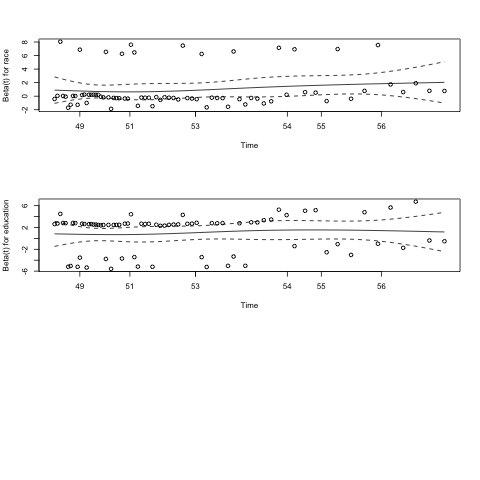
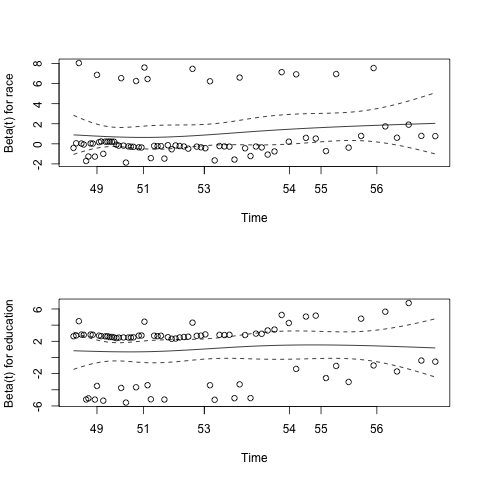
add codes

diff --git a/Background.md b/Background.md
@@ -12,6 +12,8 @@
 
     * The hazared ratio model
 
+    * **Model 1**
+
     * $$
       \begin{aligned}
       t_i &= x_i-v_i\\
@@ -36,12 +38,24 @@
 
     * Where X is the event time, V is the left truncation time, so all the event is happened conditionally
 
-    * Quasi-independent: If the event age X and the entry age V are conditionally independent, given the covariates Z, then a simple calculation shows that the conditional hazard $h(t | Z, X > V)$ and the unconditional hazard rate, $h(t |Z)$ are equivalent (Andersen, et al., 1993).[1]
+    * Quasi-independent: If the event age X and the entry age V are conditionally independent, given the covariates Z, then a simple calculation shows that the conditional hazard $h(t | Z, X > V)$ and the unconditional hazard rate, $h(t |Z)$ are equivalent (Andersen, et al., 1993)[1]. By assuming queasi-independence, there is no further need to adjust the intake age in the covariates of coxPH.
 
       * But might be violated from our data since the intake_time is correlated with the event time?
 
     * The hazard ratio model
 
+    * **Model 2** (only race)
+      $$
+      \begin{aligned}
+      h_i(x| v_i) &= h_0(x|v_i)exp(\eta_i)\\
+      \eta_i&=\beta_1I(race=black)_i\\
+      &+\beta_2I(race=others)_i
+      \end{aligned}
+      $$
+      
+    
+    * **Model 3**
+    
     * $$
       \begin{aligned}
       h_i(x| v_i) &= h_0(x|v_i)exp(\eta_i)\\
@@ -53,14 +67,16 @@
       \end{aligned}
       $$
 
-* 
-
-* Check the assumption of PH model
-  * The PH assumption requires the hazard ratio is constant over time,  consequently, the relative risk between subject should also be constant if there is no time-dependent covariants included.
+  
 
 
 
 # Results
+
+## Check the assumption of PH model
+
+* The PH assumption requires the hazard ratio is constant over time,  consequently, the relative risk between subject should also be constant if there is no time-dependent covariants included.
+* We first check the log-log KM curve using 2 starting points. As in Fig ??, the stratified log-log KM curve of both variables are slightly non-paralleled in both time measurements, indicating a potential violation of the cox pH assumption [3].  To further test the assumption objectively, a score test of for addition of the time-dependent term is contected for each variable and also globally. From Table ??,  all the time-dependent terms are insignificant, even though there is local crossing of the stratified KM curves. Thus we conclude that there is no evidence to reject the PH assumption for cox model 1 and model 3. We also plot the time-dependent coeffitients against time for all the variables, and the horizontal and flat lines further verifies the validation of PH assumption in models.
 
 ## Survival curve comparison using different starting point
 
@@ -78,7 +94,7 @@
 
 The first model only takes race as covariates to evaluate the main effect without considering confounding effect. From the **model1** output, we can see that there is significant difference on menopause age between black and white, but no significant difference between white and others; To further compare the difference between black and others, a new **model1'** is fitted with others as reference and No significance between race others and black is detected.
 
-To further check the confounder effect of education to the relationship between race and menopause age, **model2** is fitted to get the conditional effect of race given education level.  Even though from the anova using loglikelihood ratio test didn't show siginificant advantage of model 2, the relative risk ratio of menapause age of black v.s. white becomes larger after adjusting the educational level (2.50(1.30, 4.82) after adjusting, 2.14(1.16, 3.95) without adjusting). We conclude that education level is a potential confounder of the relationship between race and menopause age. Controling for education level, the relative risk of menopause age is 2.64(0.98,7.09) for a plack patient v.s. other ethnicity patient， and an estimate of the baseline survival function for White non-Hispanic patients with Post- graduate education is in Fig ??
+To further check the confounder effect of education to the relationship between race and menopause age, **model2** is fitted to get the conditional effect of race given education level.  Even though from the anova using loglikelihood ratio test didn't show siginificant advantage of model 2, the relative risk ratio of menapause age of black v.s. white becomes larger after adjusting the educational level (2.50(1.30, 4.82) after adjusting, 2.14(1.16, 3.95) without adjusting). We conclude that education level is a potential confounder of the relationship between race and menopause age. Controling for education level, the relative risk of menopause age is 2.64(0.98,7.09) for a plack patient v.s. other ethnicity patient， and an estimate of the baseline survival function for White non-Hispanic patients with Post- graduate education is in Fig ??.
 
 Only show race ggsurv plot(g2) ?
 
@@ -92,24 +108,24 @@ Only show race ggsurv plot(g2) ?
 
 [2] Kim et al., “Cox Proportional Hazards Models with Left Truncation and Time-Varying Coefficient.”
 
-
+[3] Kleinbaum and Klein, *Survival Analysis*.
 
 ## Check list
 
 - [ ] menopause time
   - [x] exp survival mdian suvival time, interprete and CI
   - [x] KM survival mdian suvival time, interprete and CI
-  - [ ] Fit PH
-    - [ ] interprete
-    - [ ] check assumption
-- [ ] menopause age
-  - [ ] exp survival mdian suvival time, interprete and CI
-  - [ ] KM survival mdian suvival time, interprete and CI
-  - [ ] Fit PH
-    - [ ] race only for whether 3 race groups are equivalent
-    - [ ] race+education
-      - [ ] test model selection, whether education is useful by LR 
-      - [ ] race significance after adjusting education
+  - [x] Fit PH
+    - [x] interprete
+    - [x] check assumption
+- [x] menopause age
+  - [x] exp survival mdian suvival time, interprete and CI
+  - [x] KM survival mdian suvival time, interprete and CI
+  - [x] Fit PH
+    - [x] race only for whether 3 race groups are equivalent
+    - [x] race+education
+      - [x] test model selection, whether education is useful by LR 
+      - [x] race significance after adjusting education
       - [ ] point and 95% CI, interpretation of RR of Black v.s. other
       - [ ] s0 estimates for white and post
       - [ ] check PH assumption
@@ -387,6 +403,47 @@ raceblack & 0.92 & 2.50 & 0.33 & 2.74 & 0.01 \\
    \hline
 \end{tabular}
 \caption{Model2 fitting} 
+\end{table}
+```
+
+
+
+### Schoenfeld table for models
+
+model 1 (cz1)
+
+```latex
+\begin{table}[ht]
+\centering
+\begin{tabular}{rrrr}
+  \hline
+ & chisq & df & p \\ 
+  \hline
+race & 0.49 & 2.00 & 0.78 \\ 
+  education & 1.37 & 3.00 & 0.71 \\ 
+  intake\_age & 0.45 & 1.00 & 0.50 \\ 
+  GLOBAL & 1.98 & 6.00 & 0.92 \\ 
+   \hline
+\end{tabular}
+\caption{Assumption check for Model1} 
+\end{table}
+```
+
+
+
+```latex
+\begin{table}[ht]
+\centering
+\begin{tabular}{rrrr}
+  \hline
+ & chisq & df & p \\ 
+  \hline
+race & 1.87 & 2.00 & 0.39 \\ 
+  education & 0.92 & 3.00 & 0.82 \\ 
+  GLOBAL & 3.17 & 5.00 & 0.67 \\ 
+   \hline
+\end{tabular}
+\caption{Assumption check for Model3} 
 \end{table}
 ```
 
